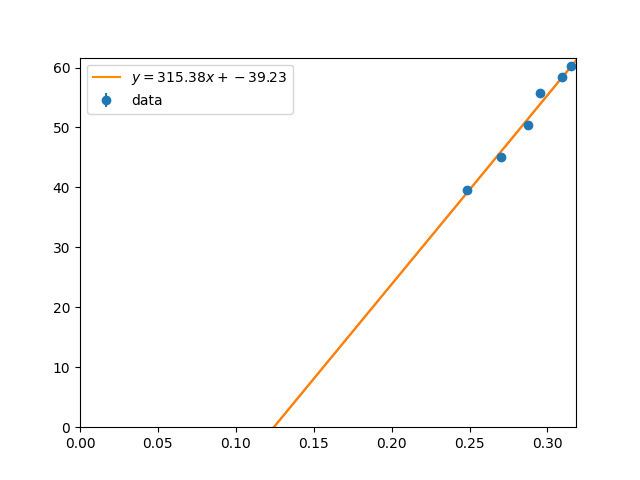
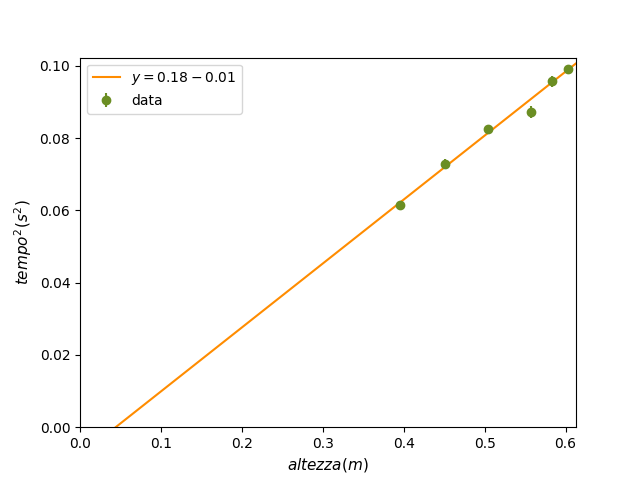
added significative changes

diff --git a/programma_caduta_libera.py b/programma_caduta_libera.py
@@ -6,9 +6,112 @@ import dati
 from strumenti_utili_v2 import *
 
 
-x = dati.tempi
-y = dati.altezze
+y = dati.tempi**2
+x = dati.altezze
+s_t = np.array([
+    deviazione(dati.tempo_caduta1, np.mean(dati.tempo_caduta1)),
+    deviazione(dati.tempo_caduta2, np.mean(dati.tempo_caduta2)),
+    deviazione(dati.tempo_caduta3, np.mean(dati.tempo_caduta3)),
+    deviazione(dati.tempo_caduta4, np.mean(dati.tempo_caduta4)),
+    deviazione(dati.tempo_caduta5, np.mean(dati.tempo_caduta5)),
+    deviazione(dati.tempo_caduta6, np.mean(dati.tempo_caduta6))
+])/np.sqrt(10) #divido ogni deviazione per la radice di N (misurazioni)
+print("incertezze sui tempi{}".format(s_t))
+s_x = 2*dati.tempi*s_t 
+print("le incertezze sulle x : {}".format(s_x))
 
+s_y = np.array([
+    deviazione(dati.h1, np.mean(dati.h1)),
+    deviazione(dati.h2, np.mean(dati.h2)),
+    deviazione(dati.h3, np.mean(dati.h3)),
+    deviazione(dati.h4, np.mean(dati.h4)),
+    deviazione(dati.h5, np.mean(dati.h5)),
+    deviazione(dati.h6, np.mean(dati.h6))
+])/np.sqrt(4)
+print("le incertezze sulle y : {}".format(s_y))
+
+#grafico parabola
+#plt.errorbar(dati.tempi, dati.altezze, s_y, fmt='o', ls='none', label='altezze', color= "DarkSlateBlue")
+plt.scatter(dati.tempi, dati.altezze, label='$h_{t}$', color= "DarkSlateBlue")
+#plt.plot(dati.tempi, dati.altezze, color= "CornflowerBlue")
+
+a = np.arange(0.0, 0.4, 0.001) # Interi tra 0 e 0.4 con intervallo 0.001
+cost = 9.81/2      
+b = cost*np.power(a, 2) 
+plt.plot(a, b, label=r'$h = \frac{1}{2}g t^{2}$')
+plt.xlim(0.0, 0.32)
+plt.ylim(0.0, 0.70)
+
+plt.xlabel('tempo di caduta (millisecondi)')
+plt.ylabel('altezze (metri)') 
+
+plt.legend() # aggiungo una legenda
+#plt.savefig('computed_data/retta.pgf')
+plt.savefig('computed_data/parabola.png')
+plt.show()
+
+#interpolazione dati
+
+#calcolo il coefficiente B
+pesi = 1/np.power(s_x, 2)
+
+delta = (sum(pesi*np.power(x, 2))*sum(pesi))-np.power(sum(pesi*x),2) 
+coefficiente = ((sum(pesi)*sum(pesi*x*y))-(sum(pesi*x)*sum(pesi*y)))/delta
+
+print("il coefficiente è: B={}".format(coefficiente))
+
+#calcolo l'intercetta A 
+intercetta = ((sum(pesi*np.power(x,2))*sum(pesi*y))-(sum(pesi*x)*sum(pesi*x*y)))/delta
+
+print("l'intercetta è: A={} dunque non posso trascurarla".format(intercetta))
+
+#calcolo sigma intercetta
+sigma_A = np.sqrt(sum(pesi*np.power(x, 2)))/math.sqrt(delta)
+print("l'incertezza su A è: sigma_A={}".format(sigma_A))
+
+#calcolo sigma coefficiente
+sigma_B = np.sqrt(sum(pesi))/math.sqrt(delta)
+print("l'incertezza su B è: sigma_B={}".format(sigma_B))
+
+#calcolo sigma g con la propagazione degli errori e il valore di g
+sigma_g = 2*sigma_B/(coefficiente**2)
+print("incertezza su g: sigma_g={}".format(sigma_g))
+
+g = 2/coefficiente
+print('accelerazione di gravità: g = {0:.3f}±{1:.3f} '.format(g, sigma_g))
+
+
+#retta interpolata
+plt.errorbar(x, y, s_x, fmt='o', ls='none', label='data', color="OliveDrab")
+
+plt.xlim(left=0)
+plt.ylim(bottom=0)
+
+plt.xlabel('$altezza (m)$', fontsize=11)
+plt.ylabel('$tempo^{2}(s^{2})$', fontsize=11) 
+xmin = 0
+xmax = max(x)+0.1*(max(x)-min(x))
+
+t = np.linspace(xmin,xmax) # stessa funzione ad alta densità
+plt.plot(t,line(t,coefficiente, intercetta),label=r"$y = {0:.2f}{1:.2f}$".format(coefficiente, intercetta), color="darkOrange")
+plt.legend() # aggiungo una legenda
+#plt.savefig('computed_data/retta.pgf')
+plt.savefig('computed_data/retta.png')
+plt.show()
+
+#=======================    generazione tabelle   =======================
+#tabella altezze
+#crea_tabella(dati.h1, 4, "computed_data/tableHeights1.tex")
+#crea_tabella(dati.h2, 4, "computed_data/tableHeights2.tex")
+#crea_tabella(dati.h3, 4, "computed_data/tableHeights3.tex")
+#crea_tabella(dati.h4, 4, "computed_data/tableHeights4.tex")
+#crea_tabella(dati.h5, 4, "computed_data/tableHeights5.tex")
+#crea_tabella(dati.h6, 4, "computed_data/tableHeights6.tex")
+
+#----------------PARTE CORRETTA-------------------
+x = dati.tempi**2
+y = dati.altezze - (0.44*dati.tempi) #stimo un errore di 1 cm (la pallina era più in alto della fotocellula)
+print("y corrette:{}".format(y))
 s_t = np.array([
     deviazione(dati.tempo_caduta1, np.mean(dati.tempo_caduta1)),
     deviazione(dati.tempo_caduta2, np.mean(dati.tempo_caduta2)),
@@ -19,6 +122,8 @@ s_t = np.array([
 ])/np.sqrt(10) #divido ogni deviazione per la radice di N (misurazioni)
 
 s_x = 2*dati.tempi*s_t 
+print("incertezze sulle x : {}".format(s_x))
+
 s_y = np.array([
     deviazione(dati.h1, np.mean(dati.h1)),
     deviazione(dati.h2, np.mean(dati.h2)),
@@ -26,19 +131,37 @@ s_y = np.array([
     deviazione(dati.h4, np.mean(dati.h4)),
     deviazione(dati.h5, np.mean(dati.h5)),
     deviazione(dati.h6, np.mean(dati.h6))
-])/np.sqrt(dati.h1.size)
+])/np.sqrt(4)
+s_y = np.sqrt(s_y**2 + (dati.tempi**2)*(0.022**2) ) #0.022 è l'incertezza sulla velocità
+print("incertezze sulle y : {}".format(s_y))
 
+#grafico parabola corretta
+plt.scatter(dati.tempi, dati.altezze, label='$h_{t}$', color= "DarkSlateBlue")
+
+a = np.arange(0.0, 0.4, 0.001) # Interi tra 0 e 0.4 con intervallo 0.001
+cost = 9.81/2      
+b = (0.44*a)+cost*np.power(a, 2) 
+plt.plot(a, b, label=r'$h = 0.44t + \frac{1}{2}g t^{2}$')
+plt.xlim(0.0, 0.32)
+plt.ylim(0.0, 0.70)
+
+plt.xlabel('tempo di caduta (millisecondi)')
+plt.ylabel('altezze (metri)') 
+
+plt.legend() # aggiungo una legenda
+#plt.savefig('computed_data/retta.pgf')
+plt.savefig('computed_data/parabola_corretta.png')
+plt.show()
+
+#interpolazione dati
 
 #calcolo il coefficiente B
-coefficiente_non_pesato = (6*sum(x*y) - sum(x)*sum(y))/(6*sum(np.power(x, 2)) - np.power(sum(x), 2))
-s_y_eq = np.sqrt(s_y**2 + (coefficiente_non_pesato*s_x)**2)
-
-pesi = 1/np.power(s_y_eq, 2)
+pesi = 1/np.power(s_y, 2)
 
 delta = (sum(pesi*np.power(x, 2))*sum(pesi))-np.power(sum(pesi*x),2) 
 coefficiente = ((sum(pesi)*sum(pesi*x*y))-(sum(pesi*x)*sum(pesi*y)))/delta
 
-print("il coefficiente è: B={0:.3f}".format(coefficiente))
+print("il coefficiente è: B={}".format(coefficiente))
 
 #calcolo l'intercetta A 
 intercetta = ((sum(pesi*np.power(x,2))*sum(pesi*y))-(sum(pesi*x)*sum(pesi*x*y)))/delta
@@ -62,18 +185,19 @@ print('accelerazione di gravità: g = {0:.3f}±{1:.3f} '.format(g, sigma_g))
 
 
 #retta interpolata
-plt.errorbar(x, y, s_y_eq, fmt='o', ls='none', label='data')
+plt.errorbar(x, y, s_y, fmt='o', ls='none', label='data', color="OliveDrab")
 
 plt.xlim(left=0)
 plt.ylim(bottom=0)
 
+plt.xlabel('$tempo^{2}(s^{2})$', fontsize=11)
+plt.ylabel('$altezza (m)$', fontsize=11) 
 xmin = 0
 xmax = max(x)+0.1*(max(x)-min(x))
 
 t = np.linspace(xmin,xmax) # stessa funzione ad alta densità
-plt.plot(t,line(t,coefficiente, intercetta),label=r"$y = {0:.2f}x+{1:.2f}$".format(coefficiente, intercetta), color="darkOrange")
-plt.plot(t,line(t,coefficiente, intercetta))
+plt.plot(t, line(t,coefficiente, intercetta), label=r"$y = {0:.2f}{1:.3f}$".format(coefficiente, intercetta), color="darkOrange")
 plt.legend() # aggiungo una legenda
 #plt.savefig('computed_data/retta.pgf')
-plt.savefig('computed_data/retta.png')
+plt.savefig('computed_data/retta_corretta_2.png')
 plt.show()

diff --git a/dati.py b/dati.py
@@ -1,12 +1,13 @@
 import numpy as np
+from strumenti_utili_v2 import *
 
 #sfera 1
-h1 = np.array([60.3, 60.2, 60.2, 60.3]) #in cm
-h2 = np.array([58.4, 58.3, 58.3, 58.4])
-h3 = np.array([55.6, 55.7, 55.8, 55.7])
-h4 = np.array([50.4, 50.5, 50.4, 50.5])
-h5 = np.array([45.0, 45.1, 45.0, 45.1])
-h6 = np.array([39.5, 39.6, 39.7, 39.5])
+h1 = np.array([60.3, 60.2, 60.2, 60.3])/100#in m
+h2 = np.array([58.4, 58.3, 58.3, 58.4])/100
+h3 = np.array([55.6, 55.7, 55.8, 55.7])/100
+h4 = np.array([50.4, 50.5, 50.4, 50.5])/100
+h5 = np.array([45.0, 45.1, 45.0, 45.1])/100
+h6 = np.array([39.5, 39.6, 39.7, 39.5])/100
 
 tempo_caduta1 = np.array([0.3160, 0.3072, 0.3198, 0.3148, 0.3229, 0.3183, 0.3150, 0.3076, 0.3097, 0.3184]) #10 lanci misurati in s
 tempo_caduta2 = np.array([0.3096, 0.3231, 0.3074, 0.3109, 0.3165, 0.3112, 0.3089, 0.3078, 0.2945, 0.3029])
@@ -14,7 +15,6 @@ tempo_caduta3 = np.array([0.2957, 0.3042, 0.2994, 0.3044, 0.2887, 0.2752, 0.3007
 tempo_caduta4 = np.array([0.2899, 0.2874, 0.2976, 0.2897, 0.2799, 0.2904, 0.2776, 0.2888, 0.2812, 0.2908])
 tempo_caduta5 = np.array([0.2667, 0.2627, 0.2805, 0.2793, 0.2798, 0.2621, 0.2679, 0.2675, 0.2614, 0.2724])
 tempo_caduta6 = np.array([0.2569, 0.2384, 0.2526, 0.2433, 0.2492, 0.2492, 0.2582, 0.2494, 0.2400, 0.2447])
-
 
 #tempi e altezze
 tempi = np.array([
@@ -25,6 +25,7 @@ tempi = np.array([
     np.mean(tempo_caduta5),
     np.mean(tempo_caduta6)
 ])
+print("le medie dei tempi sono: {}".format(tempi))
 
 altezze = np.array([
     np.mean(h1),
@@ -34,3 +35,4 @@ altezze = np.array([
     np.mean(h5),
     np.mean(h6)
 ])
+print("le medie delle altezze sono: {}".format(altezze))

diff --git a/strumenti_utili_v2.py b/strumenti_utili_v2.py
@@ -91,12 +91,12 @@ def crea_tabella(dati, colonne, percorso, template="semplice"):
     for i in range(0, len(dati)):
         #se i è un multiplo di colonne, inserisci l'acapo
         if((i+1)%(colonne) == 0):
-            content += r"""{} \\
+            content += r"""{0:.3f} \\
             \hline
             """.format(dati[i])
         #altrimenti metti l'elemento nella stessa riga
         else:
-            content += "{} & ".format(dati[i])
+            content += "{0:.3f} & ".format(dati[i])
             if(i == len(dati)-1):
                 content += r"\\"
     #crea il file

diff --git a/computed_data/tableTimes2.tex b/computed_data/tableTimes2.tex
@@ -1,0 +1,10 @@
+
+                \begin{tabular}{*{10}{c}}
+                    \hline
+                    \hline
+                        0.310 & 0.323 & 0.307 & 0.311 & 0.317 & 0.311 & 0.309 & 0.308 & 0.294 & 0.303 \\
+                    \hline
+                    \hline
+                \end{tabular}
+
+        

diff --git a/computed_data/tableTimes1.tex b/computed_data/tableTimes1.tex
@@ -1,0 +1,9 @@
+
+                \begin{tabular}{*{10}{c}}
+                    \hline
+                    \hline
+                        0.316 & 0.307 & 0.320 & 0.315 & 0.323 & 0.318 & 0.315 & 0.308 & 0.310 & 0.318 \\
+
+                    \hline
+                    \hline
+                \end{tabular}

diff --git a/computed_data/tableTimes3.tex b/computed_data/tableTimes3.tex
@@ -1,0 +1,8 @@
+
+                \begin{tabular}{*{10}{c}}
+                    \hline
+                    \hline
+                        0.296 & 0.304 & 0.299 & 0.304 & 0.289 & 0.275 & 0.301 & 0.294 & 0.294 & 0.297 \\
+                    \hline
+                    \hline
+                \end{tabular}

diff --git a/computed_data/tableTimes4.tex b/computed_data/tableTimes4.tex
@@ -1,0 +1,8 @@
+
+                \begin{tabular}{*{10}{c}}
+                    \hline
+                    \hline
+                        0.290 & 0.287 & 0.298 & 0.290 & 0.280 & 0.290 & 0.278 & 0.289 & 0.281 & 0.291 \\
+                    \hline
+                    \hline
+                \end{tabular}

diff --git a/computed_data/tableTimes6.tex b/computed_data/tableTimes6.tex
@@ -1,0 +1,8 @@
+
+                \begin{tabular}{*{10}{c}}
+                    \hline
+                    \hline
+                        0.257 & 0.238 & 0.253 & 0.243 & 0.249 & 0.249 & 0.258 & 0.249 & 0.240 & 0.245 \\
+                    \hline
+                    \hline
+                \end{tabular}

diff --git a/computed_data/tableTimes5.tex b/computed_data/tableTimes5.tex
@@ -1,0 +1,10 @@
+
+                \begin{tabular}{*{10}{c}}
+                    \hline
+                    \hline
+                        0.267 & 0.263 & 0.281 & 0.279 & 0.280 & 0.262 & 0.268 & 0.268 & 0.261 & 0.272 \\
+					\hline
+                    \hline
+                \end{tabular}
+
+        

diff --git a/computed_data/tableHeights5.tex b/computed_data/tableHeights5.tex
@@ -1,0 +1,10 @@
+
+                \begin{tabular}{*{4}{c}}
+                    \hline
+                    \hline
+                        0.450 & 0.451 & 0.450 & 0.451 \\
+                    \hline
+                    \hline
+                \end{tabular}
+
+        

diff --git a/computed_data/tableHeights1.tex b/computed_data/tableHeights1.tex
@@ -1,0 +1,9 @@
+
+                \begin{tabular}{*{4}{c}}
+                    \hline
+                    \hline
+                        0.603 & 0.602 & 0.602 & 0.603 \\
+                    \hline
+                    \hline
+                \end{tabular}
+        

diff --git a/computed_data/tableHeights3.tex b/computed_data/tableHeights3.tex
@@ -1,0 +1,9 @@
+
+
+                \begin{tabular}{*{4}{c}}
+                    \hline
+                    \hline
+                        0.556 & 0.557 & 0.558 & 0.557 \\
+                    \hline
+                    \hline
+                \end{tabular}
